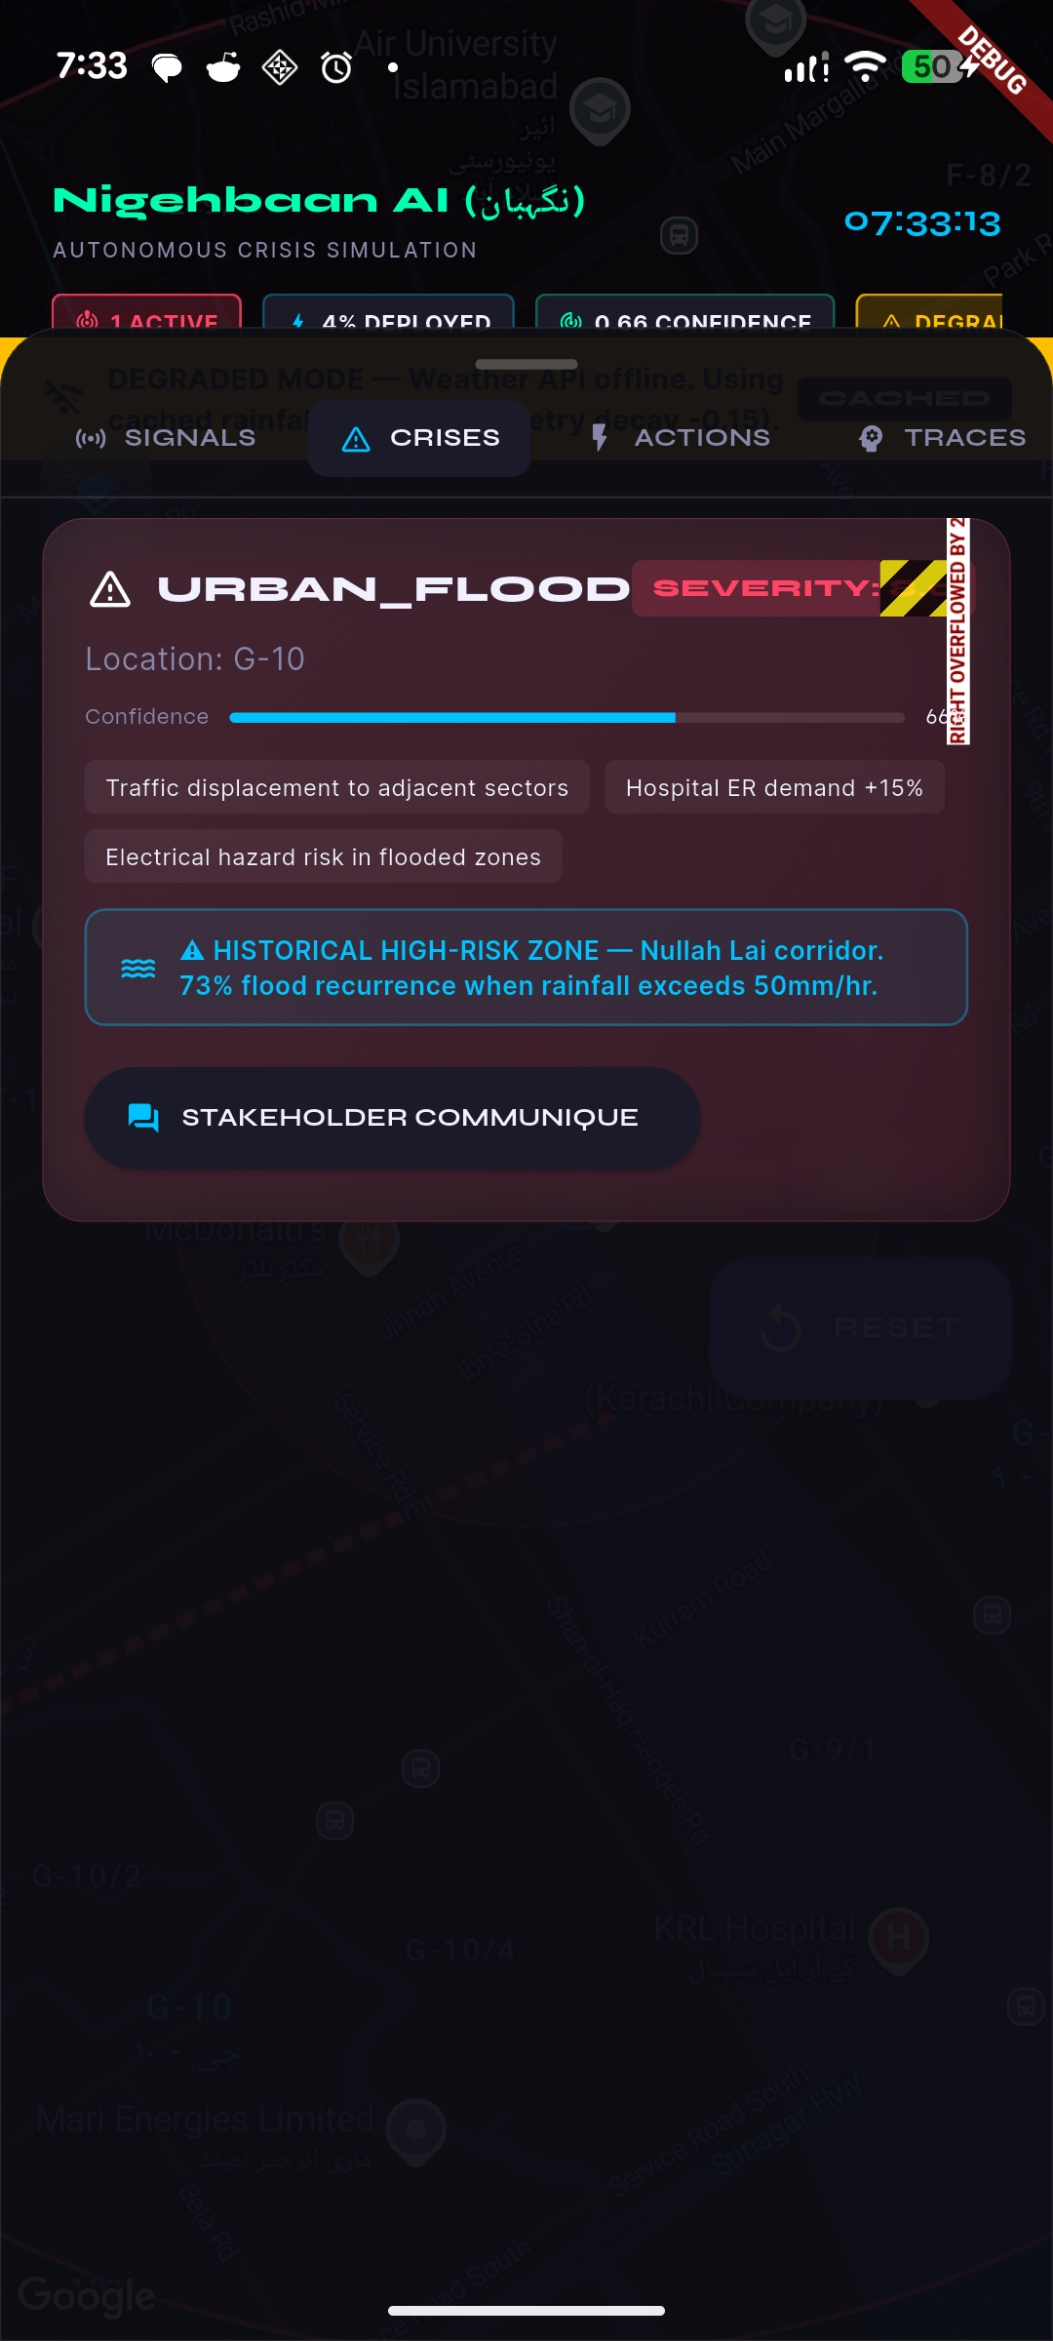
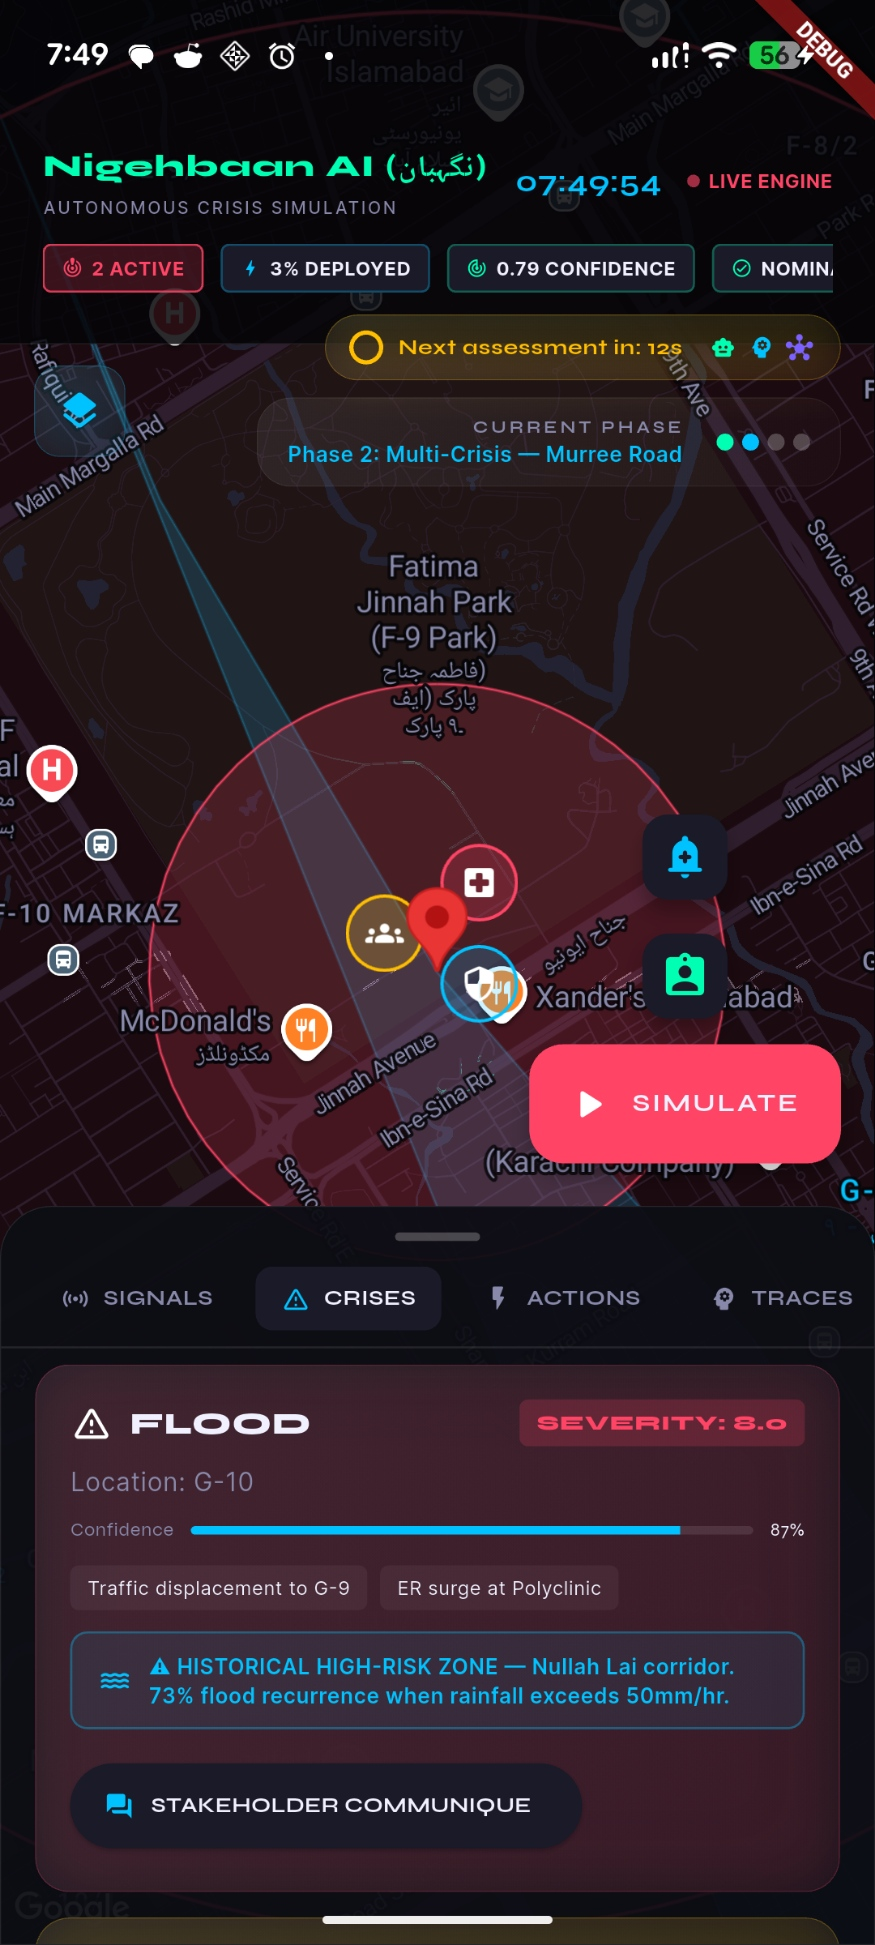
docs: style README and add github alerts

diff --git a/README.md b/README.md
@@ -1,21 +1,27 @@
-# 🚨 Nigehbaan AI (نگہبان) — Crisis Intelligence & Response Orchestrator
-### *Autonomous Multi-Agent AI Command Center for Islamabad, Pakistan*
+<div align="center">
 
-[![Flutter Prototype](https://img.shields.io/badge/Prototype-Flutter_Mobile-02569B?logo=flutter&logoColor=white)](https://flutter.dev)
-[![State Management](https://img.shields.io/badge/State-Riverpod_2.5.1-47D1CC?logo=dart&logoColor=white)](https://riverpod.dev)
-[![Maps Engine](https://img.shields.io/badge/Maps-Google_Maps-4285F4?logo=google-maps&logoColor=white)](https://developers.google.com/maps)
-[![LLM Pipeline](https://img.shields.io/badge/AI_Engine-Llama_3.3_70B-7B61FF?logo=meta&logoColor=white)](https://groq.com)
-[![OS Compatibility](https://img.shields.io/badge/Platform-Android-3DDC84?logo=android&logoColor=white)](https://android.com)
+# 🚨 Nigehbaan AI (نگہبان)
+### *Crisis Intelligence & Response Orchestrator*
+#### *Autonomous Multi-Agent AI Command Center for Islamabad, Pakistan*
+
+[![Flutter Prototype](https://img.shields.io/badge/Prototype-Flutter_Mobile-02569B?style=for-the-badge&logo=flutter&logoColor=white)](https://flutter.dev)
+[![State Management](https://img.shields.io/badge/State-Riverpod_2.5.1-47D1CC?style=for-the-badge&logo=dart&logoColor=white)](https://riverpod.dev)
+[![Maps Engine](https://img.shields.io/badge/Maps-Google_Maps-4285F4?style=for-the-badge&logo=google-maps&logoColor=white)](https://developers.google.com/maps)
+[![LLM Pipeline](https://img.shields.io/badge/AI_Engine-Llama_3.3_70B-7B61FF?style=for-the-badge&logo=meta&logoColor=white)](https://groq.com)
+[![OS Compatibility](https://img.shields.io/badge/Platform-Android-3DDC84?style=for-the-badge&logo=android&logoColor=white)](https://android.com)
+
+</div>
 
 ---
 
 ## 📖 Executive Summary & Mission Statement
 
-**Nigehbaan AI** (نگہبان) (Crisis Intelligence & Response Orchestrator) is a next-generation, high-fidelity tactical command center designed specifically for Islamabad, Pakistan. Built as a native Flutter mobile war-room dashboard, Nigehbaan harnesses a **three-agent autonomous AI orchestration pipeline** powered by Groq's high-speed inference engine (`llama-3.3-70b-versatile`). 
+**Nigehbaan AI** (نگہبان) is a next-generation, high-fidelity tactical command center designed specifically for Islamabad, Pakistan. Built as a native Flutter mobile war-room dashboard, Nigehbaan harnesses a **three-agent autonomous AI orchestration pipeline** powered by Groq's high-speed inference engine (`llama-3.3-70b-versatile`). 
 
 In emergency dispatch and public safety, operators are inundated with noisy, unstructured, and localized reports (such as social media posts in Roman Urdu, telemetry alerts, and conflicting sensor readings). Standard rule-based dispatch systems fail here—either triggering city-wide panics on unverified keywords, or suffering from "alert fatigue" and resource exhaustion during multi-incident spikes. 
 
-**Nigehbaan AI Mission:** To autonomously ingest chaotic urban signals, verify their credibility, identify active crises, resolve resource conflicts under heavy constraint, and coordinate localized response plans—all within an explainable, audit-logged tactical interface that keeps emergency commanders in complete situational control.
+> [!IMPORTANT]
+> **Nigehbaan AI Mission:** To autonomously ingest chaotic urban signals, verify their credibility, identify active crises, resolve resource conflicts under heavy constraint, and coordinate localized response plans—all within an explainable, audit-logged tactical interface that keeps emergency commanders in complete situational control.
 
 ---
 